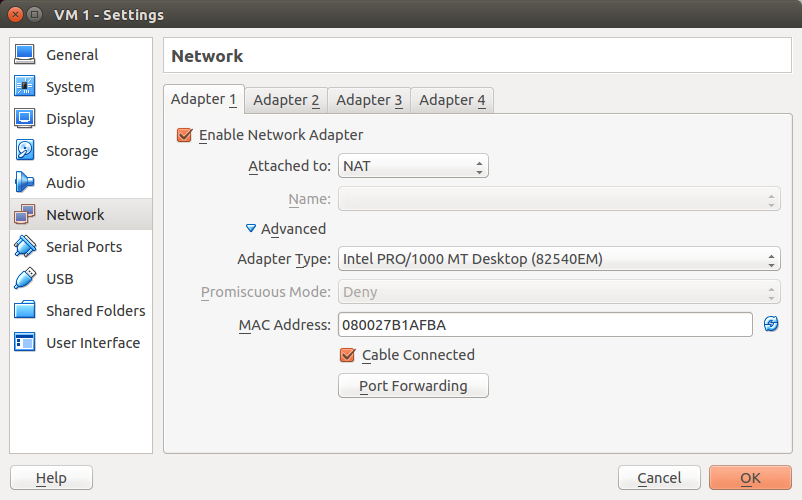
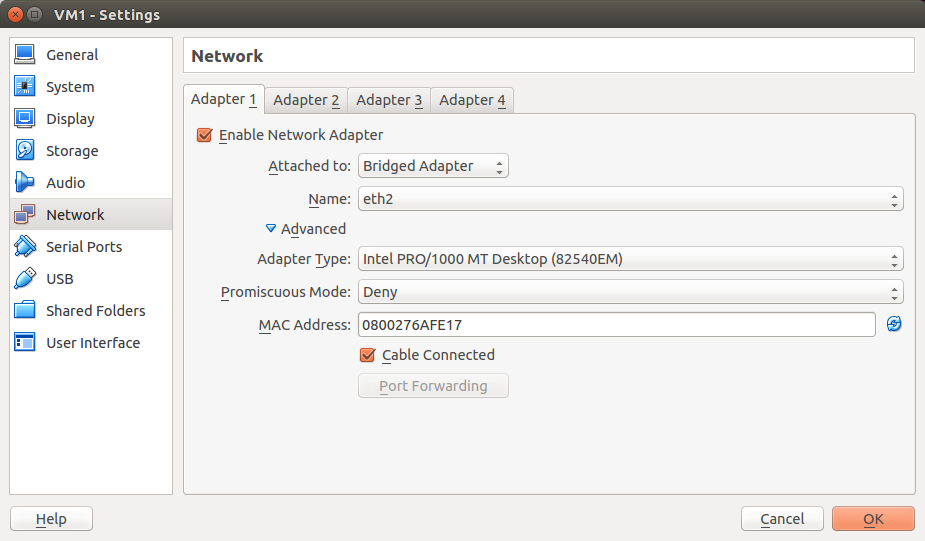
Aggiunta una foto, quasi finito capitolo 3

diff --git a/tesi_latex.tex b/tesi_latex.tex
@@ -11,6 +11,7 @@
 \usepackage[dvipsnames]{xcolor}
 \usepackage{hyperref}
 \usepackage{amsmath}
+\usepackage{frontespizio}
 
 \newcommand{\emptypage}{\newpage\shipout\null}
 \newcommand{\autori}[1]{\textsc{\texttt{#1}}}
@@ -35,11 +36,28 @@
  
 \renewcommand\labelitemii{--}
 
-\begin{document} \sloppy
-
-\begin{titlepage}
-High performance networking extensions for VirtualBox
-\end{titlepage}
+\begin{document} \sloppy \onehalfspacing
+%\begin{frontespizio}
+%	\begin{Preambolo*}
+%	\renewcommand{\fonttitlefont}{\fontsize{20}{22}\bfseries}
+%	\renewcommand{\frontinstitutionfont}{\fontsize{16}{17}\scshape}
+%	\renewcommand{\frontdivisionfont}{\fontsize{14}{17}\bfseries}
+%    	\renewcommand{\frontnamesfont}{\fontsize{14}{15}\bfseries}
+%    	\renewcommand{\frontfixednamesfont}{\fontsize{14}{15}\bfseries}
+%	\end{Preambolo*}
+%
+%\Istituzione{Università di Pisa}
+%\Dipartimento{Ingegneria dell'Informazione}
+%\Corso[Laurea Magistrale]{Computer Engineering}
+%\Logo{img/stemma.jpg}
+%\Titoletto{Tesi di Laurea Magistrale}
+%\Titolo{High performance networking extensions for VirtualBox}
+%\Sottotitolo{proca}
+%\Candidato[468020]{Luca Carotenuto}
+%\Relatore{Prof. Luigi Rizzo}
+%\Relatore{Prof. Giuseppe Lettieri}
+%\Annoaccademico{2015-2016}
+%\end{frontespizio}
 
 \emptypage
 
@@ -53,7 +71,7 @@ ai miei amici.
 Virtual Machine systems are commonly used in several organizations providing network services, since those systems supply high reliability, security and availability. Therefore, network performance has become a critical issue to deal with, since Virtual Machine systems are widespread nowadays.
 \\
 \\
-In this thesis we are going to present VirtualBox~\cite{vbox} hypervisor, giving some details about its architecture and analyzing network performances of the existing solution. We then implement an extension that interfaces the hypervisor with netmap framework~\cite{netmap}, which provides fast packet I/O. Finally, we present some optimizations to an emulated network device (e1000 in our case), that considerably improve network performances.
+In this thesis we are going to present VirtualBox hypervisor, giving some details about its architecture and analyzing network performances of the existing solution. We then implement an extension that interfaces the hypervisor with netmap framework~\cite{netmap}, which provides fast packet I/O. Finally, we present some optimizations to an emulated network device (e1000 in our case), that considerably improve network performances.
 \end{abstract}
 \emptypage
 \tableofcontents
@@ -166,6 +184,18 @@ We chose the KVM interface for tests and implementations.
 \end{itemize}
 \section{VirtualBox architecture} \label{sec:architecture}
 In this section we will present the internal architecture of VirtualBox, giving details about its implementation that is necessary to understand in order to implement our optimizations.
+
+\subsection{VirtualBox components} \label{subsec:components}
+When the VirtualBox Graphical User Interface (GUI) is opened and at least a VM is started, three processes are running:
+\begin{itemize}
+\item \textit{VBoxSVC} is the VirtualBox service that always runs in background. This process is started automatically by the first client process~\footnote{i.e. a frontend. See section \ref{subsec:vbox ui} for more informations.} and exits a short time after the last client exits. The service is responsible for maintaining the state of all VMs. It is also called \textit{server} process
+\item The GUI process. It communicates settings and state changes to \textit{VBoxSVC}. It is also called \textit{client} process
+\item The hypervisor process.
+\end{itemize}
+When we launch VirtualBox (e.g. the VirtualBox GUI), the VBoxSVC component starts executing and initializes all the registered VMs. Then, when a VM is launched, before it starts executing, the client asks the server all settings the details, so that it can deliver these information to the starting VMM process. Finally, the hypervisor is able to execute the VM.
+\\
+In section~\ref{subsec:vm_settings} we will see these steps in details.
+
 \subsection{VirtualBox kernel modules}
 VirtualBox provides different kernel modules that the user should add to the host kernel:
 \begin{itemize}
@@ -279,7 +309,7 @@ In order to implement a specific networking architecture, VirtualBox implementat
 VirtualBox defines the network device emulation \textit{network port} and the networking mode \textit{network connector}.
 \\
 \\
-Ports and connectors are two interfaces that communicate via a callback mechanism. Whatever implements a port interface, must have a reference (i.e. a pointer) to a connector, and vice versa.
+Ports and connectors are two interfaces that communicate via a callback mechanism. In any way a code implements a port interface, it must have a reference (i.e. a pointer) to a connector, and vice versa.
 \paragraph{Ports}
 The methods~\footnote{The "pfn" prefix stands for "pointer to function". It is imposed by VirtualBox coding guidelines.} exported by ports (which are exposed to connectors) are the following:
 \begin{itemize}
@@ -296,14 +326,15 @@ The methods exported by connectors (which are exposed to ports) are the followin
 \item \texttt{pfnFreeBuf} Frees an unused buffer that has been requested by the port.
 \item \texttt{pfnSendBuf} Sends data to the network. After the port filled the buffer (allocated by the connector) with data, it calls this function passing the filled buffer to the connector.
 \end{itemize}
-
+Moreover, both interfaces export two other (mandatory) methods: \texttt{pfnConstruct} (constructor) and \texttt{pfnDestruct} (destructor). The constructor is called when the VMM instantiates a port/connector, the destructor is called during the shutdown process.
+\\
+\\
 \begin{figure}[!ht]
 	\centering
 	 	\includegraphics[scale=.75]{img/port_conn_if.png}
 	 	\caption{Example of EMT execution flow}
 	 	\label{img:port_conn_if}
-\end{figure}
-In this way, when a port wants to send a frame to the network, it invokes the \texttt{pfnBeginXmit} function provided by the connector in order to gain lock access on the connector itself; then it calls \texttt{pfnAllocBuf} function to get a buffer where the port can store the frame and, finally, it invokes \texttt{pfnSendBuf} so that the connector can push the frame (passed as argument) to the network.
+\end{figure}In this way, when a port wants to send a frame to the network, it invokes the \texttt{pfnBeginXmit} function provided by the connector in order to gain lock access on the connector itself; then it calls \texttt{pfnAllocBuf} function to get a buffer where the port can store the frame and, finally, it invokes \texttt{pfnSendBuf} so that the connector can push the frame (passed as argument) to the network.
 On the other direction, when the connector gets a frame from the network, it invokes the \texttt{pfnWaitReceiveAvail} to whether the port is able to receive data. If this is the case, it immediately calls \texttt{pfnReceive} so that the port can push the received frame (passed as argument) to the guest.
 \\
 A simplified version of the above interaction is depicted in figure~\ref{img:port_conn_if}, where only the \textit{send} and \textit{receive} functions are shown.
@@ -351,10 +382,11 @@ The \textbf{adapter} stop condition is \begin{math}TDH == TDT \end{math}, i.e. t
 In order to prevent the index registers to wrap around, the device driver must never use the last free descriptor. So when the TDT is such that incrementing it circularly would cause \begin{math}TDH == TDT \end{math}, the driver must stop transmitting. This is the \textit{TX ring full} condition.
 \\
 Figure~\ref{img:tx_ring} shows the TX ring with its registers.
-\begin{figure}[!h] \label{img:tx_ring}
+\begin{figure}[!h] 
 	\centering
 	\includegraphics[scale=0.6]{img/tx_ring.png}
 	\caption{TX ring with its registers. Free descriptors are the grey ones, while the pending descriptors are the white ones. \textit{base} is the concatenation of TDBAH and TDBAL registers.}
+	\label{img:tx_ring}
 \end{figure}
 
 \subsection{RX ring}
@@ -386,10 +418,11 @@ The \textbf{adapter} stop condition is $RDH == RDT$, i.e. there is no available 
 As for the TX ring, in order to prevent the array indexes to wrap around, the driver should never increment RDT if the increment would cause $RDT == RDH$. This is the full RX ring condition.
 \\
 Figure~\ref{img:rx_ring} shows the RX ring with its registers.
-\begin{figure}[!h] \label{img:rx_ring}
+\begin{figure}[!h] 
 	\centering
 	\includegraphics[scale=0.6]{img/rx_ring.png}
 	\caption{RX ring with its registers. Filled descriptors are the grey ones, while the available descriptors are the white ones. \textit{base} is the concatenation of RDBAH and RDBAL registers.}
+	\label{img:rx_ring}
 \end{figure}
 
 \subsection{e1000 interrupts} \label{subsec:e1000_interrutps}
@@ -416,7 +449,7 @@ The e1000 network adapter has a register, called \textit{Interrupt Throttling Re
 \section{VirtualBox e1000 emulation}  \label{sec:e1000_emu}
 The e1000 port is implemented in VirtualBox through three source files \footnote{These source files are located in src/VBox/Devices/Network/ in the VirtualBox project root directory.}: \textit{DevE1000.cpp}, which is the one we are interested in, \textit{DevE1000Phy.cpp} and \textit{DevEEPROM.cpp}. The first one contains all the "emulation logic" part, while the others implement only the internal physical emulation and the internal EEPROM respectively.
 \\
-The code is an implementation of the interfaces provided by VirtualBox. Besides the callbacks discussed before (used for communication between port and connectors) there are other callbacks that provide an interface between ports and the rest of VirtualBox emulator: among the others, we have a  \textit{constructor} and a \textit{destructor}. The purpose of these functions is to initialize/uninitialize variables and structures used in the emulation, and to register/deregister the new PCI Ethernet device with the rest of the emulator. In this way, it is possible to have multiple instances of the e1000 network device when launching VirtualBox.
+The code is an implementation of the interfaces provided by VirtualBox. As mentioned in section~\ref{subsec:port_conn}, the first and last called method are the constructor (\texttt{pfnConstruct}) and the destructor (\texttt{pfnDestruct}) respectively. The main purpose of these functions is to register/deregister the new PCI Ethernet device with the rest of the emulator. In this way, it is possible to have multiple instances of the e1000 network device when launching VirtualBox.
 \\
 Furthermore, the code contains (in the first part of the file), a set of \textit{options} , implemented as \texttt{define} statements, that can be enabled/disabled before compiling (e.g. enable usage of caches, ITR register, and so on).
 \\
@@ -528,7 +561,7 @@ As described in section~\ref{subsec:port_conn}, VirtualBox includes two interfac
 \\
 Our netmap connector will be implemented through one single source file: \textit{DrvNetmap.cpp}\footnote{This source file will be located in src/VBox/Devices/Network/ in the VirtualBox project root directory. The \textit{Drv} prefix in the filename is due to the VirtualBox coding guidelines.}.
 
-\section{Integration with VirtualBox}
+\section{Integration with VirtualBox} \label{sec:integration}
 Before going into details of our implementation, we must first "integrate" our work in VirtualBox system. It basically involves the VirtualBox build process, the user interface, so that a user can choose netmap as connector for his system, and the VMs configuration mechanism, in order to set/save/load the new configuration parameters needed by netmap.
 
 \subsection{Building VirtualBox}
@@ -544,21 +577,220 @@ As mentioned before, the Makefile will check a netmap-related environment variab
 \\
 Since our new file will be placed in the network devices directory, we will modify the devices-related Makefile, located in \textit{src/VBox/Devices/} directory.
 
-\subsection{The VirtualBox User Interface}
+\subsection{The VirtualBox User Interface} \label{subsec:vbox ui}
 As stated in section~\ref{sec:features}, VirtualBox offers multiple frontends as user interfaces. We need to extend those interfaces so that a user can choose netmap as connector.
 \\
 We focused on the \textit{VirtualBox} frontend (the default one), and \textit{VBoxManage} frontend, since \textit{VBoxSDL} only launches a VM, but the related configuration is done through VBoxManage.
 
 \subsubsection{VirtualBox frontend}
-This is the default frontend. It offers a user-friendly graphical user interface (GUI). In figure~\ref{img:vbox_net_settings} 
-\begin{figure}[!h] \label{img:vbox_net_settings}
+This is the default frontend. It offers a user-friendly Graphical User Interface (GUI). The related source files are located in \textit{src/VBox/Frontends/VirtualBox/src}. Since we are interested in the networking part, we will focus on it.
+\\
+\begin{figure}[!ht] 
 	\centering
 	\includegraphics[width=\textwidth]{img/net_settings.png}
-	\caption{VBox net settings}
-\end{figure}
-\section{Initialization}
-\section{Send side}
-\section{Receive side}
+	\caption{Sample of VirtualBox network settings tab. In this case the adapter is an e1000 device, that is bridged to the host interface \textit{eth2}.}
+	\label{img:vbox_net_settings}
+\end{figure}As shown in figure~\ref{img:vbox_net_settings}, VirtualBox frontend allows to specify network settings for each VM independently and, for each VM, to specify up to 4 different network adapters. For each adapter, the following options are available:
+\begin{itemize}
+\item \textit{Enable flag} If checked, the network adapter is enabled in the Guest.
+\item \textit{Attached to} This drop down menu specifies the connector the adapter will be attached to. See section~\ref{subsec:net_modes}.
+\item \textit{Name} It is used in some networking modes. E.g. the bridged mode needs to know which physical interface will be bridged with the emulated interface.
+\item \textit{Adapter Type} Here we can select the preferred emulated adapter (such as an e1000 device).
+\item \textit{Promiscuous mode} It is used to set/unset the promiscuous mode on the adapter.
+\item \textit{MAC Address} The MAC address of the emulated interface.
+\item \textit{Cable Connected} If enabled, the adapter will be (virtually) connected to the connector.
+\item \textit{Port Forwarding} Only in NAT mode.
+\end{itemize}
+Our goal is to extend this interface so that a user can choose netmap as preferred connector. What we have to do is to include netmap in the "\textit{Attached to}" drop down menu, then add an additional text box where some netmap parameters can be specified by the user.
+\\
+To achieve this, we modified some source files that define this frontend. They are located in \textit{src/VBox/Frontends/VirtualBox/src/settings/machine}. In that way, we added netmap as an item of the drop down menu and we used the \textit{name} field as a textbox to specify to which netmap port the adapter will be attached to (e.g. a vale switch).\\\\\begin{figure}[t] 
+	\centering
+	\includegraphics[width=\textwidth]{img/netmap_settings.png}
+	\caption{The extended VirtualBox network settings interface. It uses the port 1 of the vale0 netmap virtual switch (vale0:1) and specifies 4 netmap rings per direction, having 1024 slots each.}
+	\label{img:netmap_settings}
+\end{figure}Moreover, we modified the \textit{UIMachineSettingsNetwork.ui} file; this file, which is used by Qt designer tool, describes all the GUI elements in XML (e.g. textboxes, flags, etc). Therefore, we added in the GUI a textbox where the user can specify some netmap parameters, such as the number of netmap rings and the related number of netmap slots~\footnote{For further information, refer to~\cite{netmap}.}.
+\\
+Figure \ref{img:netmap_settings} shows the result of our modifications.
+
+\subsubsection{VBoxManage frontend}
+VBoxManage is a Command Line Interface (CLI) that allows the user to completely control VirtualBox from the command line. VBoxManage supports all the features that the GUI gives the user access to, but it supports a lot more than that. VBoxManage must always be used with a specific \textit{subcommand}, such as \textit{createvm, modifyvm, controlvm} and others~\footnote{For a full list of available commands and their functions, refer to~\cite[chapter~8]{vbox}.}.
+\\
+The \textit{modifyvm} subcommand allows the user to specify many options for a specific VM, included the networking ones. So, what we have to do is to modify this command so that it supports netmap connector, netmap device name and netmap options. To achieve this we must modify the related source files in order to extend the command.
+\\
+\\
+The source files are located in \textit{src/VBox/Frontends/VBoxManage/} and there is a file for each subcommand. Therefore, since we are interested in the modifyvm command, we modified the \textit{VBoxManageModifyVM.cpp}.
+\\
+We extended the \texttt{--nic} option, which specifies the connector, so that it recognizes netmap as an argument. Then, we added two more options to the subcommand:
+\begin{itemize}
+\item \texttt{--nicnetmapdev} It specifies the netmap device the adapter will be attached to (just like the \textit{name} field in the GUI.
+\item \texttt{--nicnetmapoption} It specifies the netmap parameters (number of netmap rings and so on).
+\end{itemize}
+Furthermore, we modified the file \textit{VBoxManageHelp.cpp}, that is the implementation of the \texttt{help} command, so that the above netmap options and extensions are shown to the user.
+
+\subsection{VirtualBox VM settings} \label{subsec:vm_settings}
+In section~\ref{subsec:vbox ui} we discussed about how the user can interact with VirtualBox in order to tell it how to configure a VM. In the following, we will show how VirtualBox uses these information to actually configure a VM.
+
+\subsubsection{XML settings file}
+In VirtualBox, each VM has one directory where all files of that machine are stored; in particular, there is an XML file that describes the VM and all its settings.
+\\
+The settings file contains all those information that a user can specify for that specific VM, in particular the networking ones, using either the GUI frontend or the VBoxManage frontend. Therefore, when a user sets some options for a VM, e.g. specifies a certain connector, the information is stored in the related settings file.
+\\
+\\
+Since we modified the user interface so that it recognizes netmap, now we have to tell VirtualBox how to \textit{parse} the information coming from the UI.
+\\
+This is achieved by modifying the file \textit{/src/VBox/Main/xml/Settings.cpp}, that contains functions which manage the XML settings file. Here we extended the functions that read (write) the settings file so that they are able to return (store) the netmap-related information.
+
+\subsubsection{VirtualBox internal configuration}
+As mentioned in section~\ref{subsec:components}, when a VM is started, we have three processes: \textit{VBoxSVC} (the server), the frontend process (the client) and the VMM process (that runs the VM).
+\\
+The VBoxSVC code is splitted in several source files located in \textit{src/VBox/Main/src-server/} directory, due to its modularity, but the only components we are interested in are:
+\begin{itemize}
+\item \textit{VirtualBoxImpl.cpp} It is the main component, the "core" of the server process. It is able to communicate with all other components.
+\item \textit{MachineImpl.cpp} The \textit{Machine} component. It is an abstraction of a VM. It pares the XML settings file.
+\item \textit{NetworkAdapterImpl.cpp} The \textit{NetworkAdapter} component. It is the component that manages the networking settings.
+\end{itemize}
+The client code is also splitted in several source files located in \textit{src/VBox/Main/src-client/} directory, but the only part we are interested in is the \textit{ConsoleImpl2.cpp} one, since it initializes the VM components.
+\\
+\\
+From now on we will focus only on the handling of the networking settings, since it is the only relevant part for our purposes.
+\\
+\\
+When we launch VirtualBox (e.g. the GUI frontend), the server process starts executing and initializes all the registered VMs through an \textit{init} function. For each VM, that function, asks the machine component to load the (networking) settings for that specific VM from the related XML settings file. After reading the XML file, the machine component gives the NetworkAdapter component the settings information, so that it can store them in its internal structure.
+\\
+\\
+When we launch a VM, before the VM starts executing, the client asks the server process (VBoxSVC) all the (networking) settings details. The information request is then handled by the NetworkAdapter component, that returns the needed information.
+\\
+The client then: 
+\begin{enumerate}
+\item Discriminates which is the port/connector type using the information retrieved from the server.
+\item Initializes two configuration data structures that will contain all the networking details returned by the server.
+\item Delivers to the VMM the information about which port/connector has been chosen by the user and the related data structure. In that way the VMM knows which port/connector has to instantiate among all registered~\footnote{See section~\ref{subsec:registration}.} ones.
+\end{enumerate} 
+So, in the end, when the port and the connector will be instantiated by the VMM, i.e. the VMM will call the respective constructors, the related configuration data structures will be passed to the constructors as arguments.
+\\
+\\
+In order to integrate netmap-related options, we had to extend both server and client codes. In particular we modified the \textit{VirtualBoxImpl.cpp}, \textit{NetworkAdapterImpl.cpp} and \textit{ConsoleImpl2.cpp} source files.
+
+\paragraph{Server code} 
+In \textit{NetworkAdapterImpl.cpp} source file we added some statements used to get/set the new netmap options from/in the internal data structure (e.g. when the machine component initializes this network component). Moreover we added two new methods, a \textit{getter} and a \textit{setter}, that are exposed to the main component so that it can get/set the netmap options.
+\\
+In \textit{VirtualBoxImpl.cpp} source file we added the \textit{getter} method (which calls the new getter function in the NetworkAdapter component) that is exposed to the client so that it can retrieve the new netmap-related information.
+
+\paragraph{Client code} 
+In \textit{ConsoleImpl2.cpp} source file there is a code part that discriminates all the registered connector types. Therefore, we extended that part by adding a possible case in which a netmap connector has been specified. Our code gets the netmap settings\footnote{These settings are the netmap device name (e.g. vale0:1) and, possibly, the netmap options.} from the server, puts them in the configuration data structure and deliver these information to the VMM.
+
+\subsection{Connector registration} \label{subsec:registration}
+Compiling our new source file and configuring it through a frontend is not sufficient to make the VMM aware of the new connector. In fact, VirtualBox separates the \textbf{configuration} from the \textbf{registration} of a port/connector.
+\\
+\\
+In the initialization phase the VMM registers all connectors by calling the global function \texttt{VBoxDriverRegister} defined in \textit{VBoxDD.cpp} source file, located in \textit{src/VBox/Devices/build} directory. This, in turn, for each available connector in VirtualBox (not necessarily configured), calls the registration function that takes the pointer to the \textit{Driver Registration Record}.
+\\
+The driver registration record is a data structure containing some information about the connector itself that each connector has to statically allocate. These information are basically the name of the connector, the connector class (in our case is a network class connector) and a list of callbacks, such as the constructor and the destructor callbacks. Since a connector is identified by its name, it must be unique among all connectors. Furthermore, this registration record is useful to the VMM on startup. For these reasons, the structure must have a global scope.
+\\
+\\
+As explained in section~\ref{subsec:vm_settings}, during the startup of a VM, a client tells the VMM which connector has to instantiate and delivers it the related settings information.
+\\
+The VMM scans the list of registered connectors looking for a connector having a name that matches with the one given by the client. If a match is found, then the VMM instantiates the matching connector and calls the constructor using the pointer specified in its driver registration record.
+\\
+\\
+It is clear that if we do not register our new connector, the VMM will not be able to instantiate it and, therefore, our code will never be executed.
+\\
+In order to register our connector, we simply added a couple of lines of code in \textit{VBoxDD.cpp} source file, that call the register function passing the netmap driver registration record as argument. This registration record is contained in our new source file \textit{DrvNetmap.cpp}, which implementation will be described in the next section.
+
+\section{Connector implementation} \label{sec:implementation}
+In section~\ref{sec:integration} we discussed how we extended VirtualBox so that it is now "aware" of netmap. In the following, we will show our implementation of connector code.
+
+\subsection{Internal data structures} \label{subsec:structs}
+As we mentioned in section~\ref{subsec:registration} we need the driver registration record in order to register our new connector. The most relevant fields in the registration record are:
+\begin{itemize}
+\item Connector name, which identifies it among all other connectors. In our case is "Netmap"
+\item The class of the connector. It could be an audio connector, a block connector and so on. In our case it is a network connector.
+\item Pointer to the constructor function (\texttt{pfnConstruct}). It points to our constructor function, which name is \texttt{drvNetmapConstruct}.
+\item Pointer to the destructor function (\texttt{pfnDestruct}). It points to our destructor function, which name is \texttt{drvNetmapDestruct}.
+\end{itemize}
+Once our driver registration record is ready, we must instance the data structure that will implement (and extend) the network connector interface. The data structure contains:
+\begin{itemize}
+\item \texttt{INetworkUp} The connector interface data structure. This contains the pointers to the functions~\footnote{See section~\ref{subsec:port_conn}, paragraph \textbf{Connectors}.} that we will implement.
+\item \texttt{pIAboveNet} A pointer to the port interface we are attached to. With this, we can invoke the callbacks~\footnote{See section~\ref{subsec:port_conn}, paragraph \textbf{Ports}.} exposed to the port.
+\item \texttt{pDrvIns} The pointer to a structure used to retrieve the actual instance of the connector.
+\item \texttt{pszDeviceName} A string containing the name of the netmap device (e.g. vale0:1).
+\item \texttt{pNetmapDesc} The netmap descriptor data structure.
+\item \texttt{pTxSgBuf} A scatter/gather structure (S/G structure). This contains the buffer in which the port writes the frame it wants to transmit and some related information.
+\item \texttt{pIOThread} A pointer to the asynchronous I/O thread.
+\item \texttt{hPipeRead} The read end of a control pipe. It is read only by the asynchronous I/O thread.
+\item \texttt{hPipeWrite, hPipeRead} The write end of a control pipe. It is written by the EMT and by the VMM. 
+\item \texttt{XmitLock} The transmit lock that must be acquired by the port.
+%\item \texttt{fNoAvailableSpace} A flag used to check if there is enough space for transmission.
+\end{itemize}
+
+\subsection{Connector initialization} \label{subsec:netmap_init}
+Since the constructor is the first called function, this will be our starting point. The function that implements the \texttt{pfnConstruct} interface is called \texttt{drvNetmapConstruct}. Its purpose is to initialize our internal data structure (see section~\ref{subsec:structs}). It takes the pointer to the structure of the instance of the connector and the pointer to the configuration data structure.
+\\
+The basic steps this function performs are:
+\begin{enumerate}
+\item \textit{Initialization of the connector interface} For each callback exposed to the port, it assigns the related implementation.
+\item \textit{Parsing of the configuration} It parses the configuration parameters given by the user~\footnote{See section~\ref{subsec:vm_settings}.}. For example, if the netmap device name is missing (which is mandatory), then the constructor returns an error shutting down the VM. The same happens if a user specifies some parameters not supported by netmap.
+\item \textit{Opening of netmap descriptor} It calls the \texttt{nm\_open} function\footnote{Provided by the netmap user API.} using the user-specified parameters, if any, otherwise it uses the default ones. Opening a netmap descriptor involves the allocation of the netmap rings and, the netmap slots and, therefore, the buffer associated with each slot. Once that these buffer are allocated, their memory is never freed until the netmap descriptor is closed.
+\item \textit{Initialization of lock and pipe} It initializes the transmit lock structure and the control pipe.
+\item \textit{Thread creation} It instantiates the asynchronous thread, which has to handle the asynchronous I/O operations. The thread is instantiated with a function exposed by the VMM. In that way, the VMM takes care of suspending, resuming and destroying the thread as the VM state changes. In particular, this function takes two functions as arguments: the body of the thread, and the wakeup callback. This is called on the VMM on a VM state change~\footnote{See section~\ref{subsec:netmap_recv}.}. 
+\end{enumerate}
+When the VM is shutdown, the VMM destroys all the connectors instances by calling the destructor (\texttt{pfnDestroy}) function on each connector. Our implementation is a function called \texttt{drvNetmapDestruct}, and it performs almost all the operations done by the constructor backwards. In particular, it closes the pipe, deletes the lock and closes the netmap descriptor.
+\\
+The asynchronous thread destruction is performed internally by the VMM.
+\subsection{Send side} \label{subsec:netmap_send}
+In this section we explain the implementation of the operations related to the send side. In the following we will show, step by step, what happens on the connector side when a port wants to send a frame~\footnote{This implementation is not e1000 dependent, since it must work with any port.}.
+\begin{enumerate}
+\item \texttt{drvNetmapNetworkUp\_BeginXmit} Implements: \texttt{pfnBeginXmit}. When a port wants to transmit, the first thing it has to do is to acquire the lock on the connector. This function performs a trylock operation~\footnote{The transmitting thread is the EMT, so it must never block.} on the connector internal lock (\texttt{XmitLock}). If this operation is successful, the thread has exclusive access to the connector, so that there cannot be races.
+\item \texttt{drvNetmapNetworkUp\_AllocBuf} Implements: \texttt{pfnAllocBuf}. After the lock acquisition, the port asks the connector to allocate the data structure, the S/G buffer structure, where it will store the packet. Since we are using netmap, the buffers associated with the netmap slots are allocated on the initialization phase (constructor), so there is no need to dynamically allocate/free memory. Therefore, we keep a statically allocated S/G structure (\texttt{pTxSgBuf}) which parameters will be configured on each \texttt{pfnAllocBuf} call. In particular, the buffer pointer in \texttt{pTxSgBuf} will point to the available netmap slot buffer. The function returns a pointer to \texttt{pTxSgBuf}. This allows to save the overhead caused by memory allocation/deallocation.
+\\
+However, it may happen that the netmap TX rings are full, so there is no space available for transmission. If this is the case, we try to flush  any potential pending slots by calling a \textit{TX\_SYNC} on the netmap File Descriptor (FD) through the \texttt{ioctl} system call. If this has no effect~\footnote{E.g. we are transmitting on a netmap pipe and there is no one reading on the other end.}, we %set the \texttt{fNoAvailableSpace} flag, 
+write one byte with value \texttt{1} on the write end of the control pipe (the effects will be explained in~\ref{subsec:netmap_recv}) and return.
+\item \texttt{drvNetmapNetworkUp\_FreeBuf} Implements: \texttt{pfnFreeBuf}. This is called by the port when it wants to free the previously allocated buffer~\footnote{E.g. at the end of transmission, or if an error occurred during some phase.}. In our case, since the buffer points to the netmap slot buffer, this function will simply reset the fields of \texttt{pTxSgBuf} instead of actually freeing the memory.
+\item \texttt{drvNetmapNetworkUp\_SendBuf} Implements: \texttt{pfnSendBuf}. After the port has successfully filled the buffer, it calls this callback on the connector. This function increments the indexes of the netmap ring and performs a \textit{TX\_SYNC} on the netmap FD.
+\item \texttt{drvNetmapNetworkUp\_EndXmit} Implements: \texttt{pfnEndXmit}. This simply releases the transmit lock on the connector.
+\end{enumerate}
+There are two additional callback functions: \texttt{pfnSetPromiscuousMode} and \texttt{pfnNotifyLinkChanged}. These two functions are not useful for our purposes, but since it is mandatory that a connector implements all the exported methods, we just implemented these two callbacks with two stub functions.
+
+\subsection{Receive side} \label{subsec:netmap_recv}
+In this section we will explain the implementation of the operations related to the receive side. In the following we will show, step by step, what happens on the connector side when a frame is received from the "outside world"~\footnote{This implementation is not e1000 dependent, since it has to work with any port}.
+\\
+\\
+In section~\ref{subsec:netmap_init} we stated that the constructor initializes the thread that will handle the asynchronous I/O operations. We called this thread \textit{NETMAP thread}. Mostly, the thread is in charge of handling the incoming frames.
+\\
+\\
+The reception must be necessarily handled by a dedicated thread, and not the EMT, because it has to \textbf{wait} for incoming packets. In our case, the thread must do a \texttt{poll} system call on the netmap FD~\footnote{For further information refer to~\cite{netmap}.}, which is a blocking operation.
+\\
+The NETMAP thread body is implemented by \texttt{drvNetmapAsynchIOThread} function, while its wakeup callback is implemented by \texttt{drvNetmapAsynchIOWakeup}. The wakeup callback writes one byte with value \texttt{0} to the write end of the pipe (\texttt{hPipeWrite}) and returns. The body of the thread, instead, performs two different phases: the initialization and the loop.
+\\
+As a first step, the thread initializes the polling data structures that contain a reference to the FDs to be monitored by the \texttt{poll} system call. These FDs are two: the netmap FD and the FD of the read end of the control pipe (\texttt{hPipeRead}), both waiting for a POLLIN event.
+\\
+\\
+After the initialization, the function goes in a loop, that iterates until the VM is in \textit{RUNNING} state, that performs the following operations:
+\begin{enumerate}
+\item \textbf{Reset of polling data structures}. On the first iteration this has no effect, since those structures have just been initialized. From the second iteration on, since the \texttt{poll} modifies the \texttt{revents} field of these structures, they must be reinitialized~\footnote{See the \texttt{poll} man page for details.}.
+\item \textbf{Wait for a POLLIN event}. It calls the \textit{poll} system call, so that the NETMAP thread blocks until a POLLIN event occurs on one of the FD specified in the initialization phase, or an internal error occurs.
+\item \textbf{Wake up}. The thread wakes up. This may happen for several reasons, so it must handle all the possible situations:
+	\begin{itemize}
+	\item \textit{POLLIN on netmap FD}. I%t means that one or more frames are ready to be read from the netmap RX ring. %it checks the \texttt{fAvailableSpace} flag. If it is set, it calls the \texttt{pfnXmitPending} on the port.
+	Therefore, it will wait for the port to be ready to receive data by calling the \texttt{pfnWaitReceiveAvail} callback on the port itself, passing the \texttt{RT\_INDEFINITE\_WAIT} value as argument; this will cause the thread to block until the port is ready to receive. Of course, if it is not the case, the callback will return immediately.
+\\
+When the port is ready, the thread starts a loop in which:
+		\begin{enumerate}
+		\item Fetches the first available frame, if any. Otherwise it exits the loop.
+		\item Checks if the port is able to receive it through the \texttt{pfnWaitReceiveAvail} callback. This time, we pass a \texttt{0} value as argument, so that if the port cannot receive, the function immediately returns with a negative value. If this is the case, the thread exits the loop.
+		\item Pushes it to the port through the \texttt{pfnReceive} callback.
+		\item Goes back to step (a).
+		\end{enumerate}
+	\item \textit{POLLIN on control pipe}. It means that the EMT wrote a value in the pipe. If the value is 0, it means that the EMT executed the wakeup callback due to a state change of the VM, e.g. passed from the \textit{RUNNING} state to \textit{SUSPENDING} state. In that case, the thread reiterates the loop, thus it tests the loop condition (VM in \textit{RUNNING} state). The condition will fail this time, since the VM, following the example, is in \textit{SUSPENDED} state. Therefore, the thread it will exit the loop.
+	\\
+	If the read value is 1, it means that the EMT was trying to transmit a frame, but it found all netmap TX rings full (see section~\ref{subsec:netmap_send}). Therefore, the thread, besides waiting for a POLLIN event on the netmap FD, it also waits for a POLLOUT event on the same FD and goes back to step 1. In that way, the NETMAP thread will be awaken even when there is at least one available netmap TX slot.
+	\item \textit{POLLOUT on netmap FD}. It means that at least one netmap TX slot is available for transmission. Therefore, we have to disable POLLOUT event on the netmap FD, and we must notify the port so that it can transmit its pending packets. So we call the \texttt{pfnXmitPending} callback of the port and go back to step 1. Notice that this time the NETMAP thread is doing the transmission path.
+	\item \textit{Polling failure}. An error during the \texttt{poll} system call occurred. This should never happen, but if does, the thread relinquish the CPU and, whenever it is scheduled, goes back to step 1. 
+	\end{itemize}
+\item \textbf{End of loop}. Only happens if the VM is not in \textit{RUNNING} state anymore. In that case the thread function returns.
+\\
+As already mentioned, the VMM will take care of re-initializing the thread when the VM will switch back to \textit{RUNNING} state.
+\end{enumerate}
 \chapter{Optimizations on e1000 emulated device}
 \section{Analysis of current implementation}
 \subsection{TX performance}
@@ -566,7 +798,7 @@ This is the default frontend. It offers a user-friendly graphical user interface
 \section{Implementing mapping of descriptors} \label{subsec:memmap}
 \subsection{Implementation}
 \subsection{Performance analysis}
-\section{Packet batching}
+\section{Packet batching} \label{sec:packet_batching}
 \subsection{Implementation}
 \subsection{Modification of netmap implementation}
 \subsection{Performance analysis}
@@ -574,7 +806,7 @@ This is the default frontend. It offers a user-friendly graphical user interface
 
 %\addcontentsline{toc}{section}{\refname}
 \begin{thebibliography}{30}
-\bibitem{vbox} VirtualBox project. \url{https://www.virtualbox.org}
+\bibitem{vbox} VirtualBox user manual. \url{https://www.virtualbox.org/manual/}
 \bibitem{netmap} \autori{Rizzo L.} \textit{netmap: a novel framework for fast packet I/O} \url{http://info.iet.unipi.it/~luigi/papers/20120503-netmap-atc12.pdf}
 \bibitem{vale} \autori{Rizzo L., Lettieri G.} \textit{VALE: a switched ethernet for virtual machines.} \url{http://info.iet.unipi.it/~luigi/papers/20121026-vale.pdf}
 \bibitem{amd-v} \autori{AMD} \textit{Secure Virtual Machine Architecture Reference Manual.}
